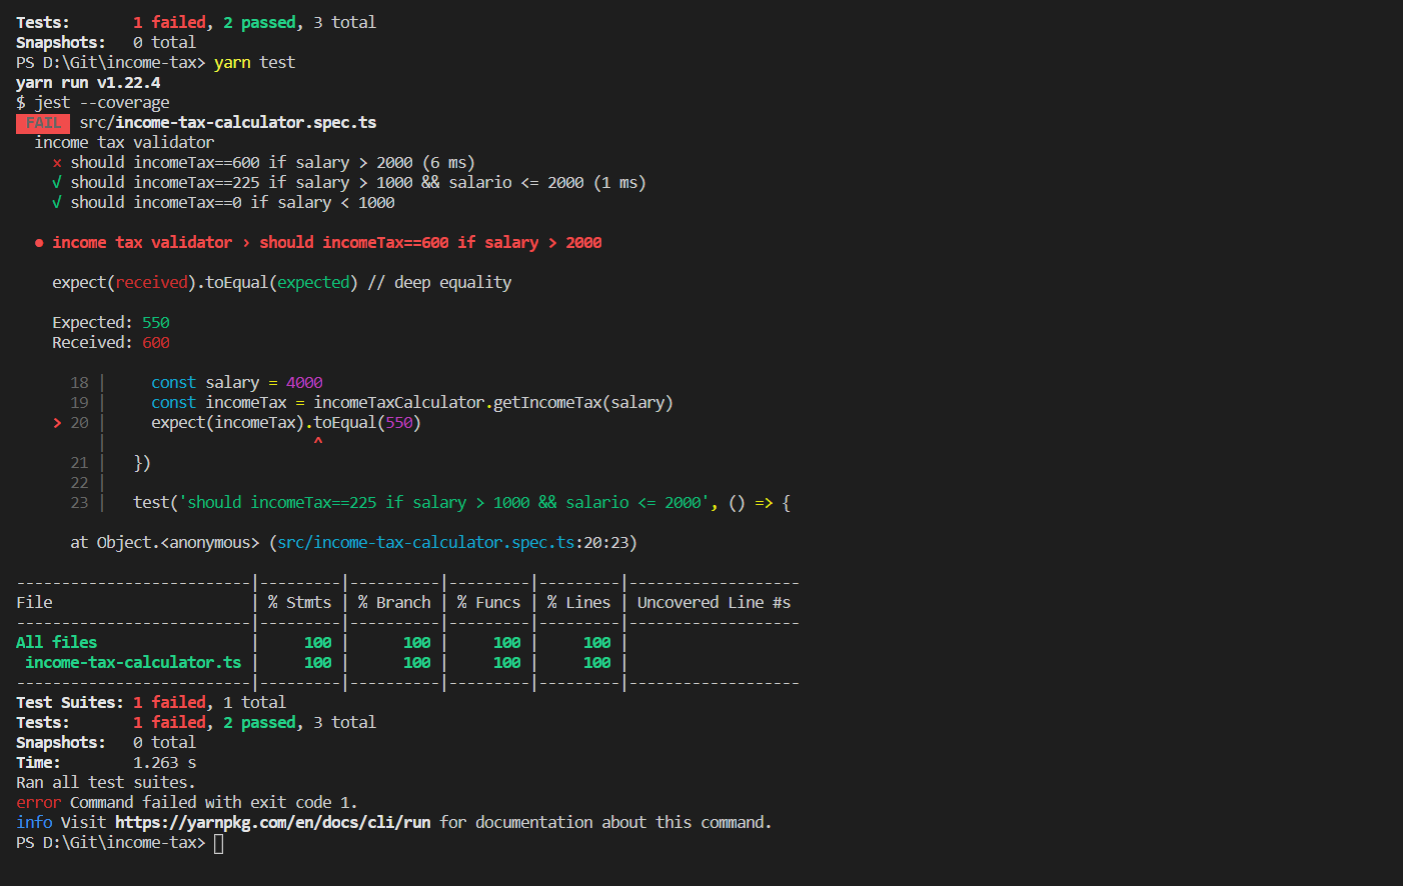
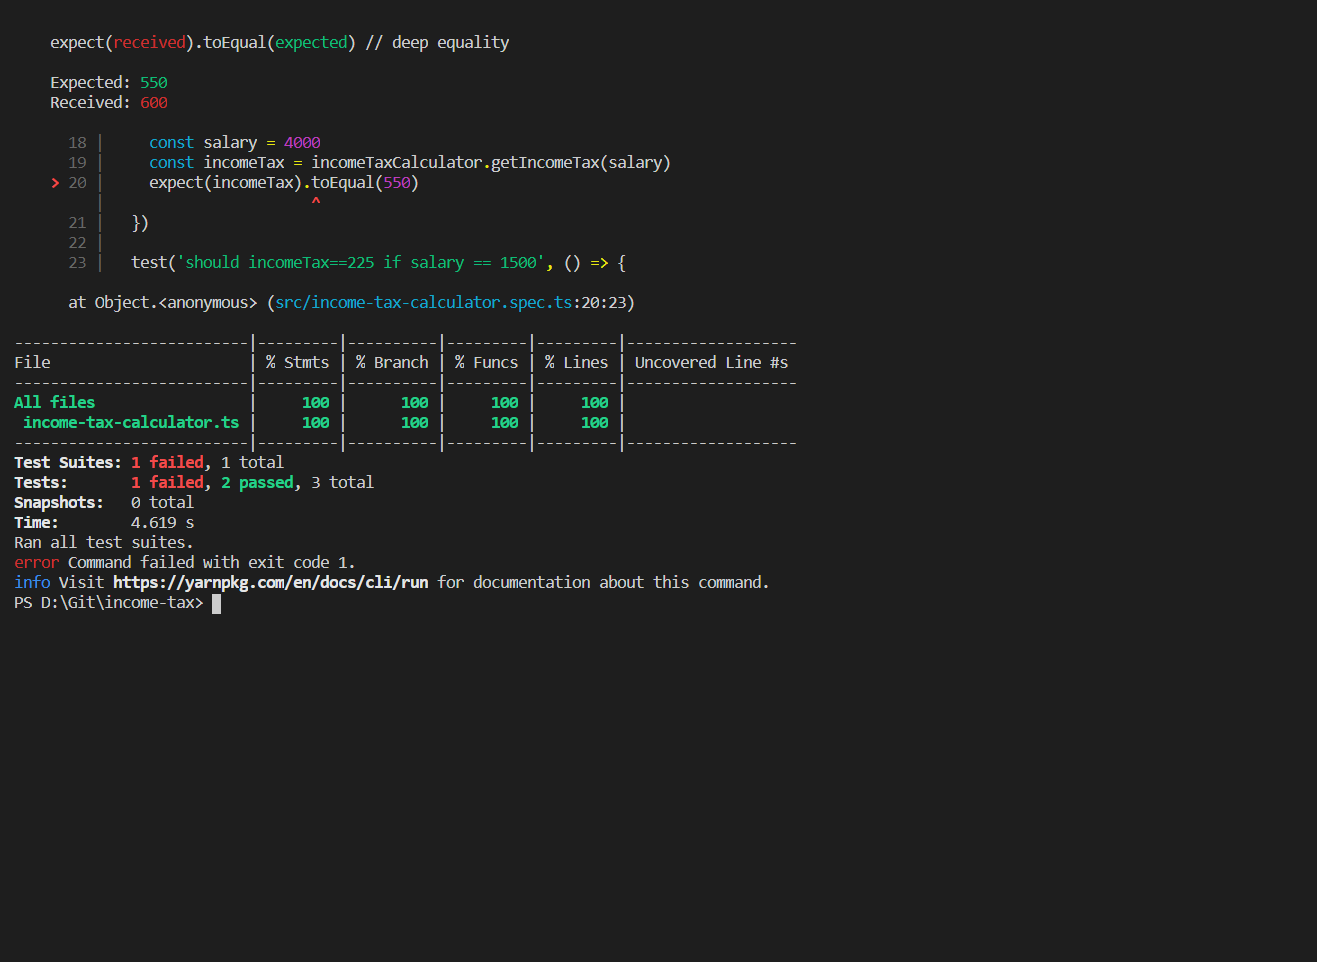
updated error image

Changed region(s): [[0.0, 0.0, 0.5915, 0.64], [0.0, 0.6704, 0.5604, 0.9752], [0.1868, 0.6704, 0.5604, 0.7619]]

diff --git a/src/income-tax-calculator.spec.ts b/src/income-tax-calculator.spec.ts
@@ -7,28 +7,28 @@ describe('income tax validator', () => {
 
   /* Apenas os testes:
 
-    - test('should incomeTax==600 if salary > 2000')
-    - test('should incomeTax==225 if salary > 1000 && salario <= 2000')
-    - test('should incomeTax==0 if salary < 1000')
+    - test('should incomeTax==600 if salary == 4000')
+    - test('should incomeTax==225 if salary == 1500')
+    - test('should incomeTax==0 if salary == 500')
 
-    Cobrem todas as sentenças (Stmts) e ramos (Branch) do código
+    Cobrem todas as sentenças (Stmts) e ramos (Branch) do código, no entanto revelou um defeito na implementação
   */
 
-  test('should incomeTax==600 if salary > 2000', () => {
+  test('should incomeTax==600 if salary == 4000', () => {
     const salary = 4000
     const incomeTax = incomeTaxCalculator.getIncomeTax(salary)
     expect(incomeTax).toEqual(550)
   })
 
-  test('should incomeTax==225 if salary > 1000 && salario <= 2000', () => {
+  test('should incomeTax==225 if salary == 1500', () => {
     const salary = 1500
     const incomeTax = incomeTaxCalculator.getIncomeTax(salary)
     expect(incomeTax).toEqual(75)
   })
 
-  test('should incomeTax==0 if salary < 1000', () => {
-    const salary = 1500
+  test('should incomeTax==0 if salary == 500', () => {
+    const salary = 500
     const incomeTax = incomeTaxCalculator.getIncomeTax(salary)
-    expect(incomeTax).toEqual(75)
+    expect(incomeTax).toEqual(0)
   })
 })

diff --git a/coverage/lcov-report/income-tax-calculator.ts.html b/coverage/lcov-report/income-tax-calculator.ts.html
@@ -32,7 +32,7 @@
             <div class='fl pad1y space-right2'>
                 <span class="strong">100% </span>
                 <span class="quiet">Branches</span>
-                <span class='fraction'>7/7</span>
+                <span class='fraction'>8/8</span>
             </div>
         
             
@@ -97,8 +97,8 @@
 <span class="cline-any cline-yes">1x</span>
 <span class="cline-any cline-yes">3x</span>
 <span class="cline-any cline-yes">3x</span>
-<span class="cline-any cline-yes">2x</span>
-<span class="cline-any cline-yes">2x</span>
+<span class="cline-any cline-yes">1x</span>
+<span class="cline-any cline-yes">1x</span>
 <span class="cline-any cline-yes">3x</span>
 <span class="cline-any cline-yes">3x</span>
 <span class="cline-any cline-yes">1x</span>
@@ -139,7 +139,7 @@ export class IncomeTaxCalculator {
             <div class='footer quiet pad2 space-top1 center small'>
                 Code coverage generated by
                 <a href="https://istanbul.js.org/" target="_blank">istanbul</a>
-                at Fri Sep 18 2020 22:53:55 GMT-0300 (GMT-03:00)
+                at Fri Sep 18 2020 23:28:37 GMT-0300 (GMT-03:00)
             </div>
         </div>
         <script src="prettify.js"></script>

diff --git a/coverage/lcov-report/index.html b/coverage/lcov-report/index.html
@@ -32,7 +32,7 @@
             <div class='fl pad1y space-right2'>
                 <span class="strong">100% </span>
                 <span class="quiet">Branches</span>
-                <span class='fraction'>7/7</span>
+                <span class='fraction'>8/8</span>
             </div>
         
             
@@ -80,7 +80,7 @@
 	<td data-value="100" class="pct high">100%</td>
 	<td data-value="25" class="abs high">25/25</td>
 	<td data-value="100" class="pct high">100%</td>
-	<td data-value="7" class="abs high">7/7</td>
+	<td data-value="8" class="abs high">8/8</td>
 	<td data-value="100" class="pct high">100%</td>
 	<td data-value="2" class="abs high">2/2</td>
 	<td data-value="100" class="pct high">100%</td>
@@ -95,7 +95,7 @@
             <div class='footer quiet pad2 space-top1 center small'>
                 Code coverage generated by
                 <a href="https://istanbul.js.org/" target="_blank">istanbul</a>
-                at Fri Sep 18 2020 22:53:55 GMT-0300 (GMT-03:00)
+                at Fri Sep 18 2020 23:28:37 GMT-0300 (GMT-03:00)
             </div>
         </div>
         <script src="prettify.js"></script>
